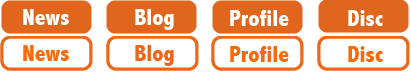
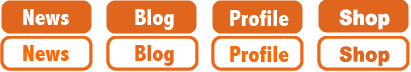
no message

Changed region(s): [[0.8175, 0.1111, 0.9635, 0.4167], [0.8175, 0.6389, 0.9635, 0.9167]]

diff --git a/turtles_web/index.html b/turtles_web/index.html
@@ -18,7 +18,7 @@
             	<li id="menu_01"><a href="index.html" >NEWS</a></li>
                 <li id="menu_02"><a href="http://theturtles.exblog.jp/" target="_blank" >BLOG</a></li>
                 <li id="menu_03"><a href="profile.html" >PROFILE</a></li>
-                <!-- <li id="menu_04"><a href="disc.html" >DISC</a></li> -->
+                <li id="menu_04"><a href="https://turtle-mania.stores.jp/"  target="_blank" >SHOP</a></li>
             </ul>
             <div style="clear:both"></div>
 
@@ -40,6 +40,17 @@
            	    	<img src="images/news_logo.png" width="436" height="41" alt="NEWS" />
 
 <div class="txtBoxHalf borderHalf">
+  <p class="txtNewsTitle" >通販はじめました！<br>『TURTLE MANI STORE』オープンのお知らせ<br /></p>
+  <p class="txtMargin1" >
+    ザ・タートルズ / 松本タカヒロのグッズ通販サイトがオープン！<br>グッズ・CD・DVD・ダウンロードなどを取り扱っています。<br />あなたのご来店お待ちしています！
+    <br><br>
+    <a href="https://turtle-mania.stores.jp/" target="_blank" class="hover" ><img src="images/banner_shop.png" width="410" alt="NEWS" /></a>
+    <br>
+  </p>
+</div>
+
+
+<div class="txtBoxHalf borderHalf">
   <p class="txtNewsTitle" >松本タカヒロ50歳記念ライブ決定！（LIVE＆生配信）<br /></p>
   <p class="" style="font-weight:bold; font-size:15px; " >
     <a href="http://www.club251.com/" target="_blank" >2020年8月19日(水) 東京・下北沢 CLUB251</a><br /><br />
@@ -51,16 +62,41 @@
   ● 出演 : ザ・タートルズ<br>
   ● 時間 : 開場 18:30  開演 19:30<br>
   ● 料金　前売り：¥4,500(ドリンク代込み)<br>
-  ● チケット発売：<a href="https://eplus.jp/" target="_blank">イープラス</a>（7/11〜）<br>
+  ● チケット発売：SOLD OUT<br>
   ● 問い合わせ：<a href="http://www.club251.com/" target="_blank">下北沢 CLUB251</a>（TEL：03-5481-4141）<br><br />
   ● ZAIKO 有料配信チケット：¥1,800<br>
 チケットの購入はこちら→<a href="https://club251.zaiko.io/_buy/1nt0:Rx:25286" target="_blank">ZAIKO</a>（8/22までアーカイブ視聴可能）
   </p>
   <br>
-  <p class="txt" style="color: #ff0000">
-  ・感染予防のためドリンク代はチケット料金に含まれています。<br>
-  ・ガイドラインにのっとり、チケット販売枚数は通常の半分以下となっています。
-  </p><br>
+
+<p class="alert_txt" >
+  <br>
+本公演では、コロナウイルス感染予防に十分に取り組み公演を実施させて頂きます。つきましてはご来場されるお客様におかれましても、感染予防および拡散防止のため注意事項をよくお読みの上、ご理解とご協力をお願いします。<br>
+<br>
+■以下の方は、入場をお断りさせて頂きます。<br>
+・公演当日の体温が37.5℃以上の発熱のある方<br>
+・倦怠感等体調に不安のある方<br>
+・マスクを着用されていない方<br>
+・公演日２週間以内に政府の定める入国制限されている国・エリアへの渡航歴がある方<br>
+・同居家族など身近に新型コロナウイルス感染者がいる方、新型コロナウイルス感染者と接触があった方<br>
+<br>
+
+■ご来場者様へのお願い<br>
+・新型コロナウイルス接触確認アプリ(COCOA)のダウンロードにご協力をお願い致します。<br>
+・入場時及びチケット購入(分配)時にご登録いただいたお名前、ご連絡先を、政府の要請に基づき保健所等の公共機関へ提供させていただく可能性があります。<br>
+・入場時、検温を実施いたします。37.5℃以上のお客様を検知した場合は入場をお断りさせて頂きます。<br>
+・入場列はソーシャルディスタンスを確保した形で整列をお願いします。<br>
+・マスクをご持参頂き、公演中もマスクをご着用の上ご鑑賞ください。<br>
+・入場口等に消毒剤を設置致します。こまめな消毒にご協力ください。<br>
+<br>
+</p>
+<br>
+<!-- <p class="alert_txt" >・感染予防のためドリンク代はチケット料金に含まれています。</p>
+<p class="alert_txt">・ガイドラインにのっとり、チケット販売枚数は通常の半分以下となっています。</p>
+<p class="alert_txt">・ご参加される方は各自マスクは必須。出来れば手袋やゴーグルなど着用の上ご来場ください。</p>
+<p class="alert_txt">・換気には十分配慮いたしますが、インフルエンザ・風邪・コロナなど100％防止できるものではありませんので、自対策の上ご来場いただき、少しでも体調や心理状況に不安がある方は、配信ライブでお楽しみいただくようお願い申し上げます。</p>
+<p class="alert_txt">・入場時に検温・連絡先確認を実施させて頂く場合がございますので、ご協力お願いいたします。</p>
+  <br> -->
 <img src="images/turtles_1.jpg" width="415px" />
 <br /><br />
 

diff --git a/turtles_web/basic.css b/turtles_web/basic.css
@@ -27,7 +27,7 @@ body {
     font:13px "ＭＳ Ｐゴシック",arial,helvetica,clean,sans-serif;
     *font-size:small;
     *font:x-small;
-	line-height:1.4; 
+	line-height:1.4;
 }
 
 /* ================================================= */
@@ -46,9 +46,9 @@ body {
 
 #menu{
 	width:411px;
-	height:36px;	
+	height:36px;
 	margin-left:547px;
-	padding-top:39px	
+	padding-top:39px
 }
 
 #menu ul li{
@@ -62,7 +62,7 @@ body {
 	height:36px;
 	display: block;
 	text-indent:-10000px;
-	background:url(../images/menu_bg.png) -0 0;	
+	background:url(../images/menu_bg.png) -0 0;
 }
 #menu_01 a:hover{
 	background-position: 0 -36px ;
@@ -72,7 +72,7 @@ body {
 	height:36px;
 	display: block;
 	text-indent:-10000px;
-	background:url(../images/menu_bg.png) -99px 0;	
+	background:url(../images/menu_bg.png) -99px 0;
 }
 #menu_02 a:hover{
 	background-position: -99px -36px ;
@@ -82,7 +82,7 @@ body {
 	height:36px;
 	display: block;
 	text-indent:-10000px;
-	background:url(../images/menu_bg.png) -206px 0;	
+	background:url(../images/menu_bg.png) -206px 0;
 }
 #menu_03 a:hover{
 	background-position: -206px -36px ;
@@ -92,7 +92,7 @@ body {
 	height:36px;
 	display: block;
 	text-indent:-10000px;
-	background:url(../images/menu_bg.png) -309px 0;	
+	background:url(../images/menu_bg.png) -309px 0;
 }
 #menu_04 a:hover{
 	background-position: -309px -36px ;
@@ -119,7 +119,7 @@ body {
 #Top #Left{
 	width:440px;
 	float:left;
-	
+
 }
 #Top #Right{
 	width:440px;
@@ -167,7 +167,7 @@ body {
 .txtBlogTitle{
 	font-size:12px;
 	color:#ff5a00;
-	margin:10px 0 10px 20px;	
+	margin:10px 0 10px 20px;
 }
 .txtBlogTitle a{
 	color:#ff5a00;
@@ -201,7 +201,7 @@ body {
 }
 .matsu{
 	background:url(../images/matsu.png);
-	
+
 }
 .michi{
 	background:url(../images/michi.png);

diff --git a/takahiroid.com/common/css/style.css b/takahiroid.com/common/css/style.css
@@ -135,15 +135,15 @@ body{
 				.header ul.gnavi_pc li.bio_btn a{
 					color:#f39806;
 				}
-				.header ul.gnavi_pc li.blog_btn a{
-					color:#e60617;
+				.header ul.gnavi_pc li.insta_btn a{
+					color:#CC3366;
 				}
 				.header ul.gnavi_pc li.twitter_btn a{
-					color:#920783;
+					color: rgba(29,161,242,1.00);
 				}
-/*				.header ul.gnavi_pc li.facebook_btn a{
-					color:#920783;
-				}*/
+				.header ul.gnavi_pc li.shop_btn a{
+					color:#e60617;
+				}
 					.header ul.gnavi_pc li a:hover{
 						opacity:0.50;
 						filter:alpha(opacity=50);
@@ -511,6 +511,11 @@ background-position: center;
 		width: 100%;
 
 		}
+p.alert_txt{
+	font-size: 12px;
+	border-top:1px dotted #CCC;
+	border-bottom:1px dotted #CCC;
+}
 
 /*------------------------------------------------------
 NEWS（アーカイブ）

diff --git a/takahiroid.com/common/css/style_sp.css b/takahiroid.com/common/css/style_sp.css
@@ -151,13 +151,12 @@
 				}
 				.gnavi_sp .menu li.works_btn a{
 					color:#70b539;
-
 				}
 				.gnavi_sp .menu li.bio_btn a{
 					color:#f39806;
 				}
-				.gnavi_sp .menu li.blog_btn a{
-					color:#e60617;
+				.gnavi_sp .menu li.insta_btn a{
+					color:#CC3366;
 				}
 				.gnavi_sp .menu li.twitter_btn a{
 					color: rgba(29,161,242,1.00);
@@ -166,7 +165,9 @@
 					color:#920783;
 					padding-bottom: 20px;
 				}
-
+				.gnavi_sp .menu li.shop_btn a{
+					color:#e60617;
+				}
 		.active.menu-trigger span:nth-child(1) {
 		    top: 11px;
 		    transform: rotate(315deg);

diff --git a/turtles_web/css/basic.css b/turtles_web/css/basic.css
@@ -1,6 +1,9 @@
 @charset "UTF-8";
 /* CSS Document */
 
+a.hover:hover img {
+	opacity: 0.7
+}
 .clearfix:after {
     content: ".";
     display: block;
@@ -190,7 +193,11 @@ body {
 	color:#f00;
 	text-decoration:underline;
 }
-
+p.alert_txt{
+	font-size: 12px;
+	border-top:1px dotted #CCC;
+	border-bottom:1px dotted #CCC;
+}
 
 .YouTube{
 	margin:25px 0 0 15px;

diff --git a/takahiroid.com/news/index.php b/takahiroid.com/news/index.php
@@ -71,15 +71,36 @@
           ●出演 : ザ・タートルズ<br>
           ●時間 : 開場 18:30  開演 19:30<br>
           ●料金　前売り：¥4,500(ドリンク代込み)<br>
-          ●チケット発売：<a href="https://eplus.jp/" target="_blank">イープラス</a>（7/11〜）<br>
+          ●チケット発売：SOLD OUT<br>
           ●問い合わせ：<a href="http://www.club251.com/" target="_blank">下北沢 CLUB251</a>（TEL：03-5481-4141）<br><br />
           ●ZAIKO 有料配信チケット：¥1,800<br>
 チケットの購入はこちら→<a href="https://club251.zaiko.io/_buy/1nt0:Rx:25286" target="_blank">ZAIKO</a>（8/22までアーカイブ視聴可能）
           </p>
-          <p class="txt" style="color: #ff0000">
-          ・感染予防のためドリンク代はチケット料金に含まれています。<br>
-          ・ガイドラインにのっとり、チケット販売枚数は通常の半分以下となっています。
-          </p>
+<br />
+<p class="alert_txt" >
+  <br>
+本公演では、コロナウイルス感染予防に十分に取り組み公演を実施させて頂きます。つきましてはご来場されるお客様におかれましても、感染予防および拡散防止のため注意事項をよくお読みの上、ご理解とご協力をお願いします。<br>
+<br>
+■以下の方は、入場をお断りさせて頂きます。<br>
+・公演当日の体温が37.5℃以上の発熱のある方<br>
+・倦怠感等体調に不安のある方<br>
+・マスクを着用されていない方<br>
+・公演日２週間以内に政府の定める入国制限されている国・エリアへの渡航歴がある方<br>
+・同居家族など身近に新型コロナウイルス感染者がいる方、新型コロナウイルス感染者と接触があった方<br>
+<br>
+
+■ご来場者様へのお願い<br>
+・新型コロナウイルス接触確認アプリ(COCOA)のダウンロードにご協力をお願い致します。<br>
+・入場時及びチケット購入(分配)時にご登録いただいたお名前、ご連絡先を、政府の要請に基づき保健所等の公共機関へ提供させていただく可能性があります。<br>
+・入場時、検温を実施いたします。37.5℃以上のお客様を検知した場合は入場をお断りさせて頂きます。<br>
+・入場列はソーシャルディスタンスを確保した形で整列をお願いします。<br>
+・マスクをご持参頂き、公演中もマスクをご着用の上ご鑑賞ください。<br>
+・入場口等に消毒剤を設置致します。こまめな消毒にご協力ください。<br>
+<br>
+</p>
+
+
+
         </div>
       </td>
 </tr>

diff --git a/takahiroid.com/common/inc/header.php b/takahiroid.com/common/inc/header.php
@@ -16,8 +16,9 @@
 	  <li class="works_btn"><a href="/works/">Works</a></li>
 	  <li class="bio_btn"><a href="/bio/">Biography</a></li>
 <!-- 	  <li class="blog_btn"><a href="https://soundcloud.com/takahiroid/sets/takahirid_works" Target="_blank">Sound Cloud</a></li> -->
-	  <li class="blog_btn"><a href="https://www.instagram.com/takahiroid/" Target="_blank">Instagram</a></li>
+	  <li class="insta_btn"><a href="https://www.instagram.com/takahiroid/" Target="_blank">Instagram</a></li>
 	  <li class="twitter_btn"><a href="http://twitter.com/takahiroid" target="_blank">Twitter</a></li>
+	  <li class="shop_btn"><a href="https://turtle-mania.stores.jp/" target="_blank">Shop</a></li>
 	</ul>
 
 	<div class="menu-trigger-wrap sp">
@@ -34,8 +35,9 @@
 		  <li class="menu-item works_btn"><a href="/works/">Works</a></li>
 		  <li class="menu-item bio_btn"><a href="/bio/">Biography</a></li>
 		  <!-- <li class="menu-item blog_btn"><a href="https://soundcloud.com/takahiroid/sets/takahirid_works" Target="_blank">Sound Cloud</a></li> -->
-		  <li class="menu-item blog_btn"><a href="https://www.instagram.com/takahiroid/" target="_blank">Instagram</a></li>
+		  <li class="menu-item insta_btn"><a href="https://www.instagram.com/takahiroid/" target="_blank">Instagram</a></li>
 		  <li class="menu-item twitter_btn"><a href="http://twitter.com/takahiroid" target="_blank">Twitter</a></li>
+		  <li class="menu-item shop_btn"><a href="https://turtle-mania.stores.jp/" target="_blank">Shop</a></li>
 
 		</ul>
 	</nav>
